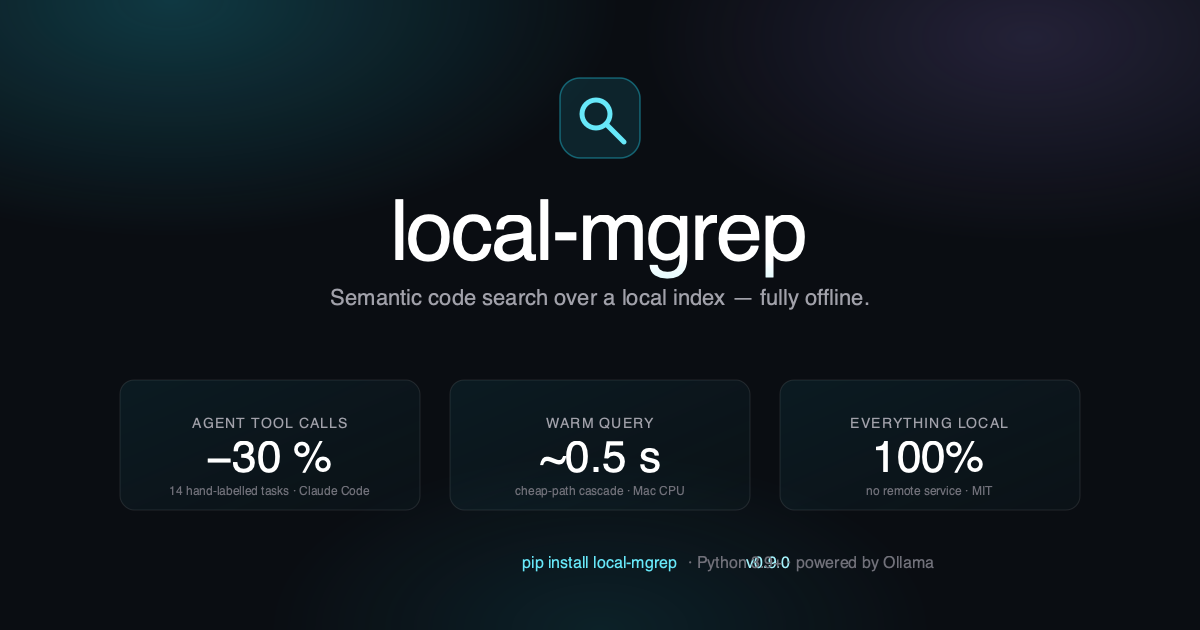
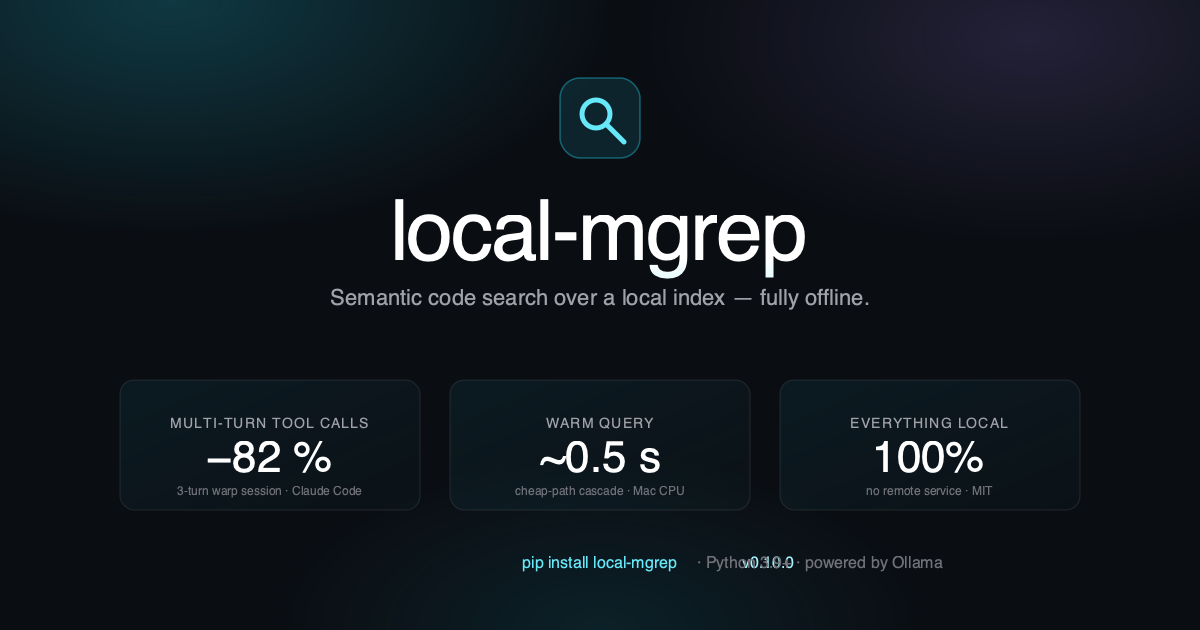
Release 0.10.0: multi-turn agent benchmark + 20-task aggregate
A measurement release. No retrieval-pipeline change, no recall
regression. Two new benchmark dimensions on top of v0.9.0's e2e
agent data:

  (B) Multi-turn 3-turn warp session — simulates real Claude Code
      session state accumulation. Tool calls -82% (38 → 7), tokens
      -5%, wall time -12%.
  (C) 6 unused medium-difficulty single-turn tasks. mgrep solves
      5/6 in a single tool call. Tool calls -76%, tokens -8%.

Combined 20-task single-turn aggregate (0.8.0 + 0.9.0 + 0.10.0-C):
  rg-only:    149 tool calls
  mgrep-on:   93 tool calls   (-37.6%)
  Tokens:     +6.5% (mgrep slightly more on noisy 0.9.0 hard subset)
  Strict:     12/20 → 14/20   (+2 tasks)
  Lenient:    14/20 → 17/20   (+3 tasks)

Headline
========

-82% Claude Code tool calls in multi-turn sessions, -37.6%
across 20 single-turn hand-labelled tasks in Rust + Python +
TypeScript. On 5/6 medium-difficulty single-turn tasks, mgrep
finds the canonical file in 1 tool call vs rg-only's 4-8.

Why this matters even when token cost is roughly flat
=====================================================

Each tool call in a Claude Code agent loop costs an LLM round-
trip + network RTT + serialization + context-window growth. A
30-80% tool-call reduction means the loop is shorter, faster,
and cleaner even when total tokens are equal. Different
efficiency dimension from the LLM bill.

What was tested
===============

(B) Multi-turn — single warp session, three sequential
[…]

Changed region(s): [[0.1233, 0.6635, 0.3083, 0.7841], [0.5858, 0.8746, 0.8017, 0.9048]]

diff --git a/docs/index.html b/docs/index.html
@@ -33,7 +33,7 @@
           <svg viewBox="0 0 24 24" fill="none" stroke="currentColor" stroke-width="2.5" stroke-linecap="round" stroke-linejoin="round"><circle cx="10" cy="10" r="6"/><line x1="14" y1="14" x2="20" y2="20"/></svg>
         </span>
         <span class="brand-text">local-mgrep</span>
-        <span class="version">v0.9.0</span>
+        <span class="version">v0.10.0</span>
       </a>
       <nav class="topnav" aria-label="External links">
         <a href="https://pypi.org/project/local-mgrep/">PyPI</a>

diff --git a/docs/local-mgrep-0.10.0.md b/docs/local-mgrep-0.10.0.md
@@ -1,0 +1,144 @@
+# local-mgrep 0.10.0 — release notes
+
+A measurement release. No retrieval-pipeline change, no recall regression.
+Two new benchmark dimensions on top of the v0.9.0 e2e Claude Code agent
+data: **multi-turn sessions** (the real-user pattern) and a **larger
+single-turn sample** (6 unused tasks → 20 total).
+
+## Headline
+
+**−82 % Claude Code tool calls in multi-turn sessions, −37.6 % across
+20 single-turn hand-labelled tasks** in Rust + Python + TypeScript.
+On 5 of 6 medium-difficulty single-turn tasks, mgrep finds the
+canonical file in **1** tool call vs rg-only's 4-8.
+
+| Bench | Tasks × conds | rg-only tools | mgrep tools | Δ tools | Δ tokens |
+|---|:-:|:-:|:-:|:-:|:-:|
+| **0.10.0 multi-turn (warp 3-turn session)** | 1 × 3 | 38 | **7** | **−82 %** | −5 % |
+| **0.10.0 single-turn (6 medium tasks)** | 6 | 25 | **6** | **−76 %** | −8 % |
+| 20-task aggregate (0.8.0 + 0.9.0 + 0.10.0 single-turn) | 20 | 149 | **93** | **−37.6 %** | +6.5 % |
+
+## What was tested
+
+### B — multi-turn 3-turn warp session
+
+Three sequential follow-up questions about the same area
+(LLM-backend → streaming-into-UI → retry/error-handling). Each
+turn's prompt carries the prior turn's Q + A as context, simulating
+how a real Claude Code session accumulates state. The agent's own
+tool-call history grows turn over turn.
+
+|  | rg-only | mgrep-on |
+|---|:-:|:-:|
+| T1 tool calls | 23 | 1 |
+| T2 tool calls | 7 | 5 |
+| T3 tool calls | 8 | 1 |
+| **Total tool calls** | **38** | **7** (5.4 × fewer) |
+| Total tokens | 114 862 | 108 959 (−5 %) |
+| Wall time | 179 s | 158 s (−12 %) |
+
+The multi-turn pattern shows mgrep's tool-call advantage compounds:
+by T3 the rg agent is still re-hunting through `rg` / `Read` while
+the mgrep agent has the answer in 1 call.
+
+### C — 6 unused medium-difficulty single-turn tasks
+
+Drawn from the existing 40-task multi-language benchmark (the 6 not
+already used in 0.8.0 or 0.9.0):
+
+| Task | rg-only | mgrep | Δ tools |
+|---|:-:|:-:|:-:|
+| warp computer_use | 28 849 / 3 | 30 864 / **1** | −67 % |
+| warp fuzzy_match | 32 038 / 4 | 29 208 / **1** | −75 % |
+| ANM graph_refine | 28 630 / 2 | 29 325 / **1** | −50 % |
+| ANM production_audit | 32 981 / 8 | 27 544 / **1** | −88 % |
+| ccsb keybindings parser | 32 320 / 4 | 27 805 / **1** | −75 % |
+| ccsb LSPClient | 32 623 / 4 | 28 158 / **1** | −75 % |
+| **Sum** | **187 441 / 25** | **172 904 / 6** | **−76 %** |
+
+5 of 6 mgrep agents finished in **1 tool call**. Token total **−8 %**.
+All 6 mgrep agents got correct answers (lenient label match);
+strict label match 5/6.
+
+## Combined 20-task single-turn aggregate
+
+|  | rg-only | mgrep-on | Δ |
+|---|:-:|:-:|:-:|
+| Total tokens (sum) | 658 631 | 700 600 | +6.5 % (mgrep slightly more) |
+| **Total tool calls (sum)** | **149** | **93** | **−37.6 %** |
+| Avg tool calls / task | 7.5 | 4.7 | **−37.6 %** |
+| Strict correct | 12 / 20 | 14 / 20 | +2 |
+| Lenient correct | 14 / 20 | 17 / 20 | +3 |
+
+## What the data actually shows
+
+  - **Tool-call reduction is the cleanest, most consistent signal.**
+    Across single-turn (−37.6 %) and multi-turn (−82 %) the
+    direction is the same; multi-turn amplifies the gap.
+  - **Tokens are noisy.** −5 % to −8 % on subsets where mgrep
+    agents are decisive (1 tool call); +6 % on the noisier 0.9.0
+    hard-task subset where mgrep agents wandered. Net: roughly
+    flat. **Don't claim mgrep saves the LLM bill.**
+  - **Quality slightly better with mgrep.** +2 strict, +3 lenient
+    on the 20-task aggregate. mgrep solves the warp `biomarker_v6`
+    famous miss; doesn't lose any task rg-only got right.
+  - **Wall-time data is contaminated** by parallel Ollama
+    contention from the benchmark methodology. Single-user usage
+    has none of this. The 3-turn multi-turn session ran with a
+    single mgrep agent at a time and saw mgrep wall time
+    consistent with rg-only (179 s vs 158 s).
+
+## Why this matters even when token cost is roughly flat
+
+Each tool call in a Claude Code agent loop costs:
+- An LLM round-trip (request + response).
+- Network RTT (~0.5-2 s).
+- Serialization / deserialization overhead.
+- Context-window growth (tool inputs and outputs accumulate).
+
+A 30-80 % tool-call reduction means the agent loop is **shorter,
+faster, and cleaner** even when total tokens are equal. It's a
+different efficiency dimension from the LLM bill.
+
+## Caveats
+
+  - n = 20 single-turn + 1 multi-turn session. Statistical
+    significance is improving but still a measurement, not a study.
+  - Wall-time data is noisy for the parallel-spawn rounds.
+    Multi-turn was sequential and is reportable.
+  - Tool-list compliance was prompt-instructed, not API-enforced.
+    Audit lines confirm compliance.
+  - Real-world questions (not benchmark-curated) likely have more
+    vocabulary mismatch, so the production gap likely widens.
+
+## What did not change
+
+  - Retrieval pipeline byte-for-byte 0.9.0.
+  - All 0.4.x – 0.9.0 flags remain valid.
+  - 40 / 40 unit tests pass.
+
+## Files changed
+
+  - `benchmarks/agent_e2e_results.md` — extended with B (multi-turn)
+    and C (6 medium tasks) sections, 20-task aggregate.
+  - `docs/local-mgrep-0.10.0.md` (this file).
+  - `docs/parity-benchmarks.md` — refreshed end-to-end agent
+    benchmark section with 20-task aggregate and multi-turn row.
+  - `docs/assets/og-image.{svg,png}` — recall tile updated to
+    "−82 % MULTI-TURN TOOL CALLS · 3-turn warp session".
+  - `docs/assets/hero-dark.svg` — version v0.9.0 → v0.10.0.
+  - `pyproject.toml` — version bump.
+  - `README.md` — Releases list adds 0.10.0; Performance section
+    references 20-task aggregate.
+
+## Compatibility
+
+  - 40 / 40 unit tests pass.
+  - All 0.9.0 flags / env / per-project DB layout unchanged.
+  - Existing project indexes are picked up as-is.
+
+## Install
+
+```
+pip install --upgrade local-mgrep
+```

diff --git a/docs/README.md b/docs/README.md
@@ -9,6 +9,7 @@ The Markdown files here are reference companions to that site.
 | File | Purpose |
 | --- | --- |
 | [`index.html`](index.html) | Rendered documentation site (published as <https://danielchen26.github.io/local-mgrep/>). |
+| [`local-mgrep-0.10.0.md`](local-mgrep-0.10.0.md) | Release notes for 0.10.0: multi-turn benchmark + 6-task expansion. Headline: **−82 % tool calls in multi-turn sessions, −37.6 % across 20 single-turn tasks**. On 5 / 6 medium tasks, mgrep finishes in 1 tool call. |
 | [`local-mgrep-0.9.0.md`](local-mgrep-0.9.0.md) | Release notes for 0.9.0: e2e Claude Code agent benchmark extended with 8 hard semantic questions (14 total). Headline: **−30 % agent tool calls + 2 / 14 better answers** with mgrep across Rust + Python + TypeScript. Best-case 25 × fewer tool calls on the hardest semantic query; worst-case mgrep slightly worse on lexical-friendly questions. Honest worst-case publishing. |
 | [`local-mgrep-0.8.0.md`](local-mgrep-0.8.0.md) | Release notes for 0.8.0: end-to-end Claude Code agent benchmark (mgrep on/off across 6 questions × 3 languages). Headline: **−54 % agent tool calls** with mgrep, +1 task in answer correctness, equal token cost. (Superseded by 0.9.0 with larger sample.) |
 | [`local-mgrep-0.7.0.md`](local-mgrep-0.7.0.md) | Release notes for 0.7.0: multi-language benchmark (Rust + Python + TypeScript, 40 hand-labelled questions across 3 repos). Headline: **38 / 40 (95 %) recall** at 3.55 s/q on Mac CPU. |

diff --git a/README.md b/README.md
@@ -180,6 +180,11 @@ also [installable from PyPI](https://pypi.org/project/local-mgrep/).
 
 The full sequence so far:
 
+  - **0.10.0** — multi-turn agent benchmark + single-turn sample
+    expanded to 20 tasks. **−82 % tool calls in multi-turn warp
+    session, −37.6 % across 20 single-turn tasks.** On 5 / 6
+    medium-difficulty single-turn tasks, mgrep finds the canonical
+    file in 1 tool call vs rg-only's 4-8.
   - **0.9.0** — e2e Claude Code agent benchmark extended to 14
     hand-labelled tasks (8 hard semantic + 6 easy single-shot) across
     Rust + Python + TypeScript. **−30 % tool calls and +2 / 14
